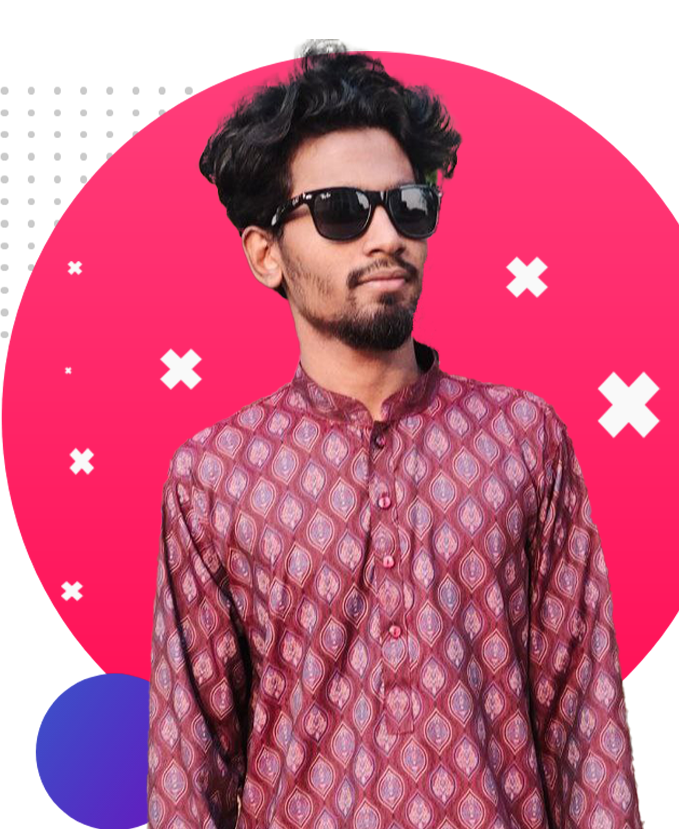
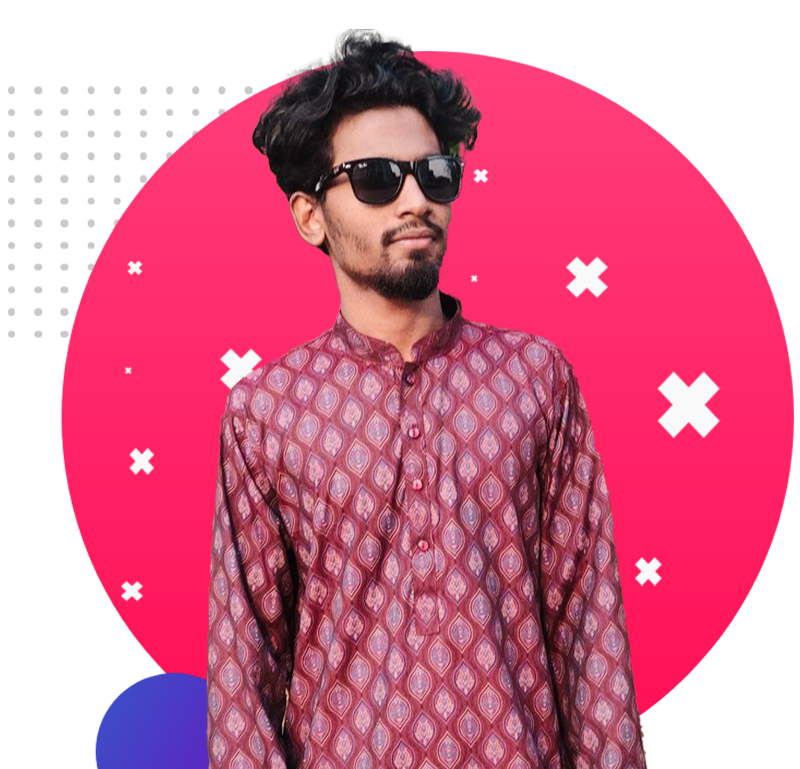
added

diff --git a/index.html b/index.html
@@ -12,6 +12,11 @@
     <link rel="preconnect" href="https://fonts.gstatic.com" crossorigin>
     <link href="https://fonts.googleapis.com/css2?family=Hedvig+Letters+Sans&family=Nova+Square&display=swap"
         rel="stylesheet">
+    <link rel="preconnect" href="https://fonts.googleapis.com">
+    <link rel="preconnect" href="https://fonts.gstatic.com" crossorigin>
+    <link
+        href="https://fonts.googleapis.com/css2?family=Hedvig+Letters+Sans&family=Nova+Square&family=Oswald&display=swap"
+        rel="stylesheet">
 
     <title>Minhaj-Website</title>
 </head>
@@ -20,15 +25,35 @@
     <section class="top-banner">
         <div class="half-width">
             <h1>Welcome To</h1>
-        <h1><span class="my-name1">Minhaj</span> Website</h1>
-        <h3><strong>World class Professonal Web Developer</strong></h3>
-        <p>Web development is the work involved in developing a website for the Internet (World Wide Web) or an intranet(aprivate network).</p>
-        <a class="button-hire" target="-blank" href="https://www.linkedin.com/in/minhajul-islamm">HIRE ME</a>
+            <h1><span class="my-name1">Minhaj</span> Website</h1>
+            <h3><strong>World class Professonal Web Developer</strong></h3>
+            <p>Web development is the work involved in developing a website for the Internet (World Wide Web) or an
+                intranet(aprivate network).</p>
+            <a class="button-hire" target="-blank" href="https://www.linkedin.com/in/minhajul-islamm">HIRE ME</a>
         </div>
         <div class="half-width">
             <img src="image/minhaj (1).png" alt="">
         </div>
     </section>
+
+
+    <section class="middle-banner">
+        <div class="half-width">
+            <img src="image/minhaj (2).png" alt="">
+        </div>
+
+        <div class="middle-width">
+            <h2>Dream Big</h2>
+            <h3>To Become A Web Developer</h3>
+            <p>I already learned the basic HTML and CSS. I can build any simple website. I can even teach my grandma how
+                to make simple website. My goal is to build 3 websites and learn advanced topics.</p>
+            <a class="button-hire" target="-blank" href="https://www.linkedin.com/in/minhajul-islamm">DOWNLOAD
+                RESUME</a>
+
+        </div>
+    </section>
+
+
 </body>
 
 </html>

diff --git a/style.css b/style.css
@@ -1,45 +1,67 @@
-body{
+body {
     margin: 0;
     font-family: 'Hedvig Letters Sans', sans-serif;
 
 
 }
-h1{
+
+h1 {
     font-size: 50px;
-    font-family: 'Nova Square', sans-serif;
-    
+    font-family: 'Hedvig Letters Sans', sans-serif;
 }
-.my-name1{
+
+h2 {
+    font-size: 40px;
+}
+
+p {
+    font-weight: lighter;
+    color: dimgray;
+}
+
+.my-name1 {
     color: orange;
+
+
 }
-.half-width{
+
+.half-width {
     width: 40%;
     float: left;
     margin-left: 5%;
     padding-left: 2%;
 
 }
-.half-width img{
-    width: 70%;
+
+.half-width img {
+    width: 80%;
+    margin-left: 15%;
 }
-.top-banner{
+
+.top-banner {
     background-image: url(image/top-banner.png);
     background-repeat: no-repeat;
-    
-    
-
 }
-section{
+
+
+section {
     height: 500px;
+    padding: 90px;
 
 }
-.button-hire{
+
+.button-hire {
     text-decoration: none;
     padding: 10px 20px;
-    background: linear-gradient(90deg, rgba(252,127,1,1) 0%, rgba(255,171,0,1) 50%, rgba(214,103,29,1) 100%);
+    background: linear-gradient(90deg, rgba(252, 127, 1, 1) 0%, rgba(255, 171, 0, 1) 50%, rgba(214, 103, 29, 1) 100%);
     color: white;
     border-radius: 5px;
     font-weight: 700;
-    
-    
+}
+
+.middle-banner {
+    background-image: url(image/dream-bg.png);
+    background-repeat: no-repeat;
+    background-position: right;
+
 }
